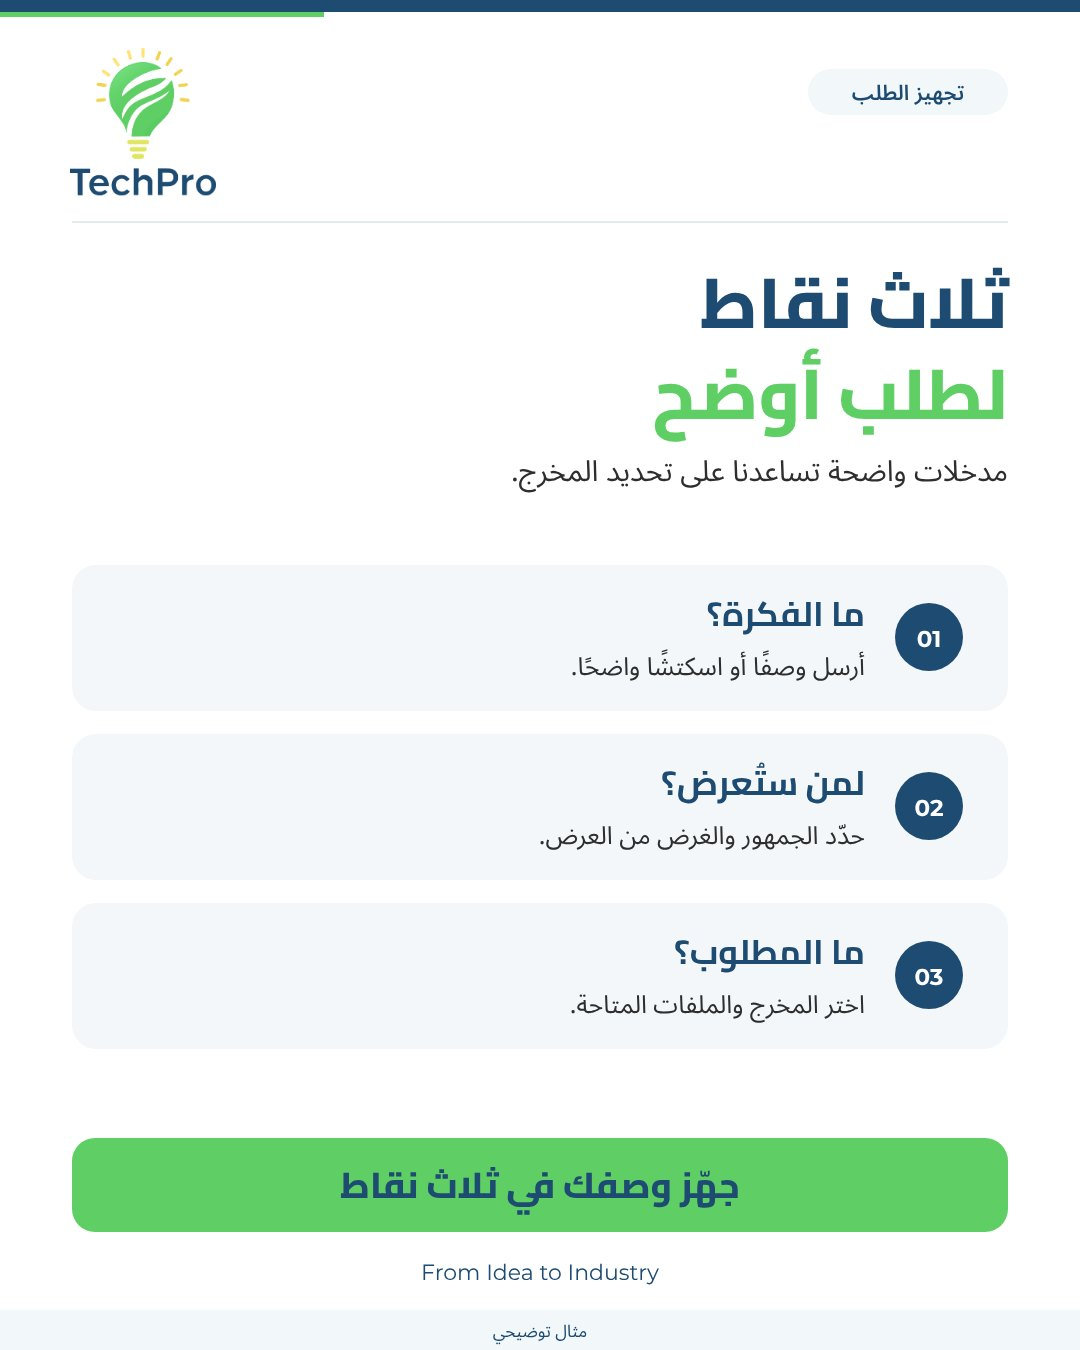
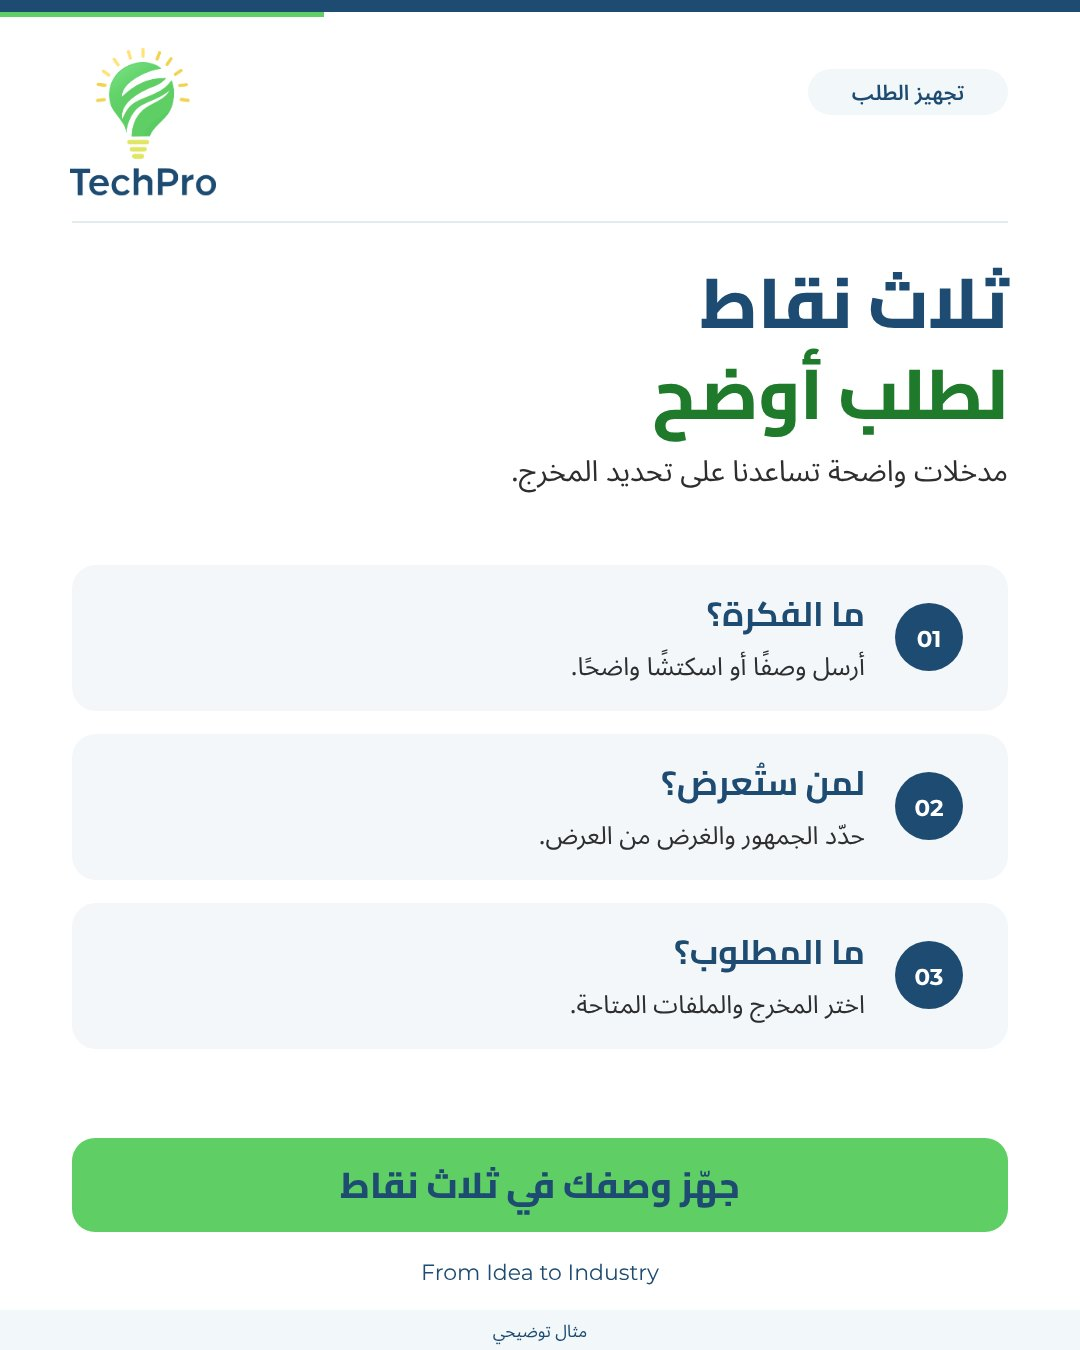
Accessible green headline text, refreshed previews, TP-09 caption
Claude-Session: https://claude.ai/code/session_01D8MzEwopmkKyD4YbKKU6kc

Changed region(s): [[0.6111, 0.2489, 0.9472, 0.3422]]

diff --git a/index.html b/index.html
@@ -285,7 +285,7 @@ nav.tabs button[aria-current="page"]{color:var(--green-ink);background:var(--gre
 
 <script>
 (()=>{
-const CAT=[{"id":"TP-01","key":"01-concept-visualization","title":"وضّح فكرتك الهندسية","layout":"رسم مفاهيمي","group":"خدمة","output":"بوست خدمة","use":"عندما تريد تقديم خدمة التصوّر مع توضيح طبيعة المخرج.","caption":"نجهّز تصوّرًا مفاهيميًا من الاسكتشات أو الصور المرجعية المتاحة لتسهيل شرح فكرتك. نحدد المخرجات بعد مراجعة المطلوب، وأي استخدام تنفيذي يحتاج مراجعة هندسية مناسبة."},{"id":"TP-02","key":"02-choose-your-output","title":"اختر المخرج المناسب لفكرتك","layout":"ثلاث بطاقات","group":"تعليم","output":"بوست تعليمي","use":"عندما يحتاج الجمهور اختيار المخرج المناسب للاستخدام.","caption":"اختيار المخرج يبدأ بتحديد الغرض: فهم الشكل، توثيق الأبعاد والتفاصيل، أو تقديم الفكرة بصريًا. تتكامل هذه المخرجات، ويُحدَّد مستوى الدقة والمعلومات بحسب الاستخدام المطلوب."},{"id":"TP-03","key":"03-five-slide-offer","title":"حوّل المحتوى إلى عرض واضح","layout":"شرائح مصغرة","group":"خدمة","output":"بوست عرض محدود","use":"عند تقديم عرض من خمس شرائح من محتوى يملكه العميل.","caption":"نراجع محتواك التقني وننظّمه في خمس شرائح توضيحية قابلة للتعديل. نتفق على الرسالة الرئيسية والمراجع وحدود التعديلات قبل بدء التنفيذ."},{"id":"TP-04","key":"04-better-brief","title":"ثلاث نقاط لطلب أوضح","layout":"قائمة مرقمة","group":"تجهيز","output":"بوست قائمة إرشادية","use":"قبل استقبال طلب جديد أو كتابة رسالة توضح المطلوب.","caption":"يبدأ الطلب الواضح بفكرة محددة وجمهور معروف ومخرج مطلوب. أرسل الملفات المتاحة مع وصف الاستخدام، لنحدد ما يمكن تجهيزه."},{"id":"TP-05","key":"05-concept-flow","title":"من المدخلات إلى المراجعة","layout":"مسار داكن","group":"تعليم","output":"خريطة تدفّق توضيحية","use":"عند شرح طريقة التعاون أو ترتيب مراحل خدمة.","caption":"يساعد المسار الواضح على تنظيم طلب التصوّر: مدخلات، ثم تصوّر، ثم مراجعة. هذا تسلسل عمل توضيحي يُكيَّف حسب نطاق كل طلب."},{"id":"TP-06","key":"06-digital-model-maquette","title":"نموذج رقمي أم ماكيت؟","layout":"مقارنة بعمودين","group":"تعليم","output":"بوست مقارنة","use":"عندما يحتاج الجمهور فهم الفرق بين الشكل الرقمي والمجسّم المادي.","caption":"النموذج الرقمي يُعرض على الشاشة، والماكيت مخرج مادي يُختار له حجم وخامة. حدّد طريقة الاستخدام أولًا، ثم راجع النطاق وإمكانية التنفيذ."},{"id":"TP-07","key":"07-hypothetical-case","title":"فكرة صغيرة، شرح أوضح","layout":"حالة وبطاقتا دليل","group":"بورتفوليو","output":"بطاقة دراسة حالة افتراضية","use":"لتقديم أسلوب العمل عندما لا يوجد مشروع موثق مصرح بنشره.","caption":"نتخيّل فكرة تحتاج شرح العلاقة بين أجزائها، ثم ننظم مدخلاتها ومخرجها البصري. هذه حالة افتراضية لعرض أسلوب التفكير، وليست مشروع عميل أو نتيجة تنفيذ."},{"id":"TP-08","key":"08-review-your-output","title":"راجع المخرج قبل التسليم","layout":"بطاقات فحص","group":"مراجعة","output":"بوست قائمة مراجعة","use":"عند طلب مراجعة تصميم أو شرح أو عرض قبل إرساله.","caption":"راجع مطابقة المحتوى للمطلوب ووضوح اللغة وملاءمة الملف قبل التسليم. تُحدَّد المراجعات الفنية المتخصصة بحسب استخدام المخرج."},{"id":"TP-09","key":"09-carousel-cover","title":"قبل أن تطلب تصوّرًا هندسيًا","layout":"غلاف بطاقات متراكبة","group":"تعليم","output":"غلاف كاروسيل فقط","use":"لبداية سلسلة قصيرة تشرح موضوعًا واحدًا في عدة شرائح.","caption":"قبل طلب التصوّر، حدّد ما تريد شرحه ولمن ستعرضه. هذا نموذج لغلاف كاروسيل؛ يمكن تطوير الشرائح التالية حول المدخلات والمخرجات."},{"id":"TP-10","key":"10-inputs-and-outputs","title":"ماذا نحتاج؟ وماذا نجهّز؟","layout":"مدخلات وسهم ومخرجات","group":"تجهيز","output":"إنفوجرافيك مبسط","use":"لتوضيح نطاق طلب جديد ومنع الخلط بين المدخلات والتسليمات.","caption":"الوصف والصور والاسكتشات تساعد على فهم الفكرة، ثم نختار المخرج المناسب. الأمثلة المعروضة بدائل نتفق عليها، وليست حزمة تسليم تلقائية."},{"id":"TP-11","key":"11-presentation-checklist","title":"عرض واضح من أربع زوايا","layout":"شبكة أربع بطاقات","group":"مراجعة","output":"بطاقة مراجعة عرض","use":"قبل تقديم عرض تقني أو عند مراجعة شرائح موجودة.","caption":"ابحث عن رسالة واضحة ونص مقروء ورسم يخدم الفكرة ومصدر عند الحاجة. هذه قائمة بداية لمراجعة العرض، وتُكيَّف مع الجمهور والغرض."},{"id":"TP-12","key":"12-service-faq","title":"قبل أن نبدأ","layout":"سؤال وجواب","group":"خدمة","output":"بوست أسئلة شائعة","use":"في منشور استقبال الاستفسارات أو لتقليل غموض الرسائل الجديدة.","caption":"تبدأ الخدمة بفهم الفكرة والملفات المتاحة والاستخدام المقصود. نتفق على النطاق والمخرجات قبل بدء التنفيذ."}];
+const CAT=[{"id":"TP-01","key":"01-concept-visualization","title":"وضّح فكرتك الهندسية","layout":"رسم مفاهيمي","group":"خدمة","output":"بوست خدمة","use":"عندما تريد تقديم خدمة التصوّر مع توضيح طبيعة المخرج.","caption":"نجهّز تصوّرًا مفاهيميًا من الاسكتشات أو الصور المرجعية المتاحة لتسهيل شرح فكرتك. نحدد المخرجات بعد مراجعة المطلوب، وأي استخدام تنفيذي يحتاج مراجعة هندسية مناسبة."},{"id":"TP-02","key":"02-choose-your-output","title":"اختر المخرج المناسب لفكرتك","layout":"ثلاث بطاقات","group":"تعليم","output":"بوست تعليمي","use":"عندما يحتاج الجمهور اختيار المخرج المناسب للاستخدام.","caption":"اختيار المخرج يبدأ بتحديد الغرض: فهم الشكل، توثيق الأبعاد والتفاصيل، أو تقديم الفكرة بصريًا. تتكامل هذه المخرجات، ويُحدَّد مستوى الدقة والمعلومات بحسب الاستخدام المطلوب."},{"id":"TP-03","key":"03-five-slide-offer","title":"حوّل المحتوى إلى عرض واضح","layout":"شرائح مصغرة","group":"خدمة","output":"بوست عرض محدود","use":"عند تقديم عرض من خمس شرائح من محتوى يملكه العميل.","caption":"نراجع محتواك التقني وننظّمه في خمس شرائح توضيحية قابلة للتعديل. نتفق على الرسالة الرئيسية والمراجع وحدود التعديلات قبل بدء التنفيذ."},{"id":"TP-04","key":"04-better-brief","title":"ثلاث نقاط لطلب أوضح","layout":"قائمة مرقمة","group":"تجهيز","output":"بوست قائمة إرشادية","use":"قبل استقبال طلب جديد أو كتابة رسالة توضح المطلوب.","caption":"يبدأ الطلب الواضح بفكرة محددة وجمهور معروف ومخرج مطلوب. أرسل الملفات المتاحة مع وصف الاستخدام، لنحدد ما يمكن تجهيزه."},{"id":"TP-05","key":"05-concept-flow","title":"من المدخلات إلى المراجعة","layout":"مسار داكن","group":"تعليم","output":"خريطة تدفّق توضيحية","use":"عند شرح طريقة التعاون أو ترتيب مراحل خدمة.","caption":"يساعد المسار الواضح على تنظيم طلب التصوّر: مدخلات، ثم تصوّر، ثم مراجعة. هذا تسلسل عمل توضيحي يُكيَّف حسب نطاق كل طلب."},{"id":"TP-06","key":"06-digital-model-maquette","title":"نموذج رقمي أم ماكيت؟","layout":"مقارنة بعمودين","group":"تعليم","output":"بوست مقارنة","use":"عندما يحتاج الجمهور فهم الفرق بين الشكل الرقمي والمجسّم المادي.","caption":"النموذج الرقمي يُعرض على الشاشة، والماكيت مخرج مادي يُختار له حجم وخامة. حدّد طريقة الاستخدام أولًا، ثم راجع النطاق وإمكانية التنفيذ."},{"id":"TP-07","key":"07-hypothetical-case","title":"فكرة صغيرة، شرح أوضح","layout":"حالة وبطاقتا دليل","group":"بورتفوليو","output":"بطاقة دراسة حالة افتراضية","use":"لتقديم أسلوب العمل عندما لا يوجد مشروع موثق مصرح بنشره.","caption":"نتخيّل فكرة تحتاج شرح العلاقة بين أجزائها، ثم ننظم مدخلاتها ومخرجها البصري. هذه حالة افتراضية لعرض أسلوب التفكير، وليست مشروع عميل أو نتيجة تنفيذ."},{"id":"TP-08","key":"08-review-your-output","title":"راجع المخرج قبل التسليم","layout":"بطاقات فحص","group":"مراجعة","output":"بوست قائمة مراجعة","use":"عند طلب مراجعة تصميم أو شرح أو عرض قبل إرساله.","caption":"راجع مطابقة المحتوى للمطلوب ووضوح اللغة وملاءمة الملف قبل التسليم. تُحدَّد المراجعات الفنية المتخصصة بحسب استخدام المخرج."},{"id":"TP-09","key":"09-carousel-cover","title":"قبل أن تطلب تصوّرًا هندسيًا","layout":"غلاف بطاقات متراكبة","group":"تعليم","output":"غلاف كاروسيل فقط","use":"لبداية سلسلة قصيرة تشرح موضوعًا واحدًا في عدة شرائح.","caption":"قبل طلب التصوّر، حدّد ما تريد شرحه ولمن ستعرضه."},{"id":"TP-10","key":"10-inputs-and-outputs","title":"ماذا نحتاج؟ وماذا نجهّز؟","layout":"مدخلات وسهم ومخرجات","group":"تجهيز","output":"إنفوجرافيك مبسط","use":"لتوضيح نطاق طلب جديد ومنع الخلط بين المدخلات والتسليمات.","caption":"الوصف والصور والاسكتشات تساعد على فهم الفكرة، ثم نختار المخرج المناسب. الأمثلة المعروضة بدائل نتفق عليها، وليست حزمة تسليم تلقائية."},{"id":"TP-11","key":"11-presentation-checklist","title":"عرض واضح من أربع زوايا","layout":"شبكة أربع بطاقات","group":"مراجعة","output":"بطاقة مراجعة عرض","use":"قبل تقديم عرض تقني أو عند مراجعة شرائح موجودة.","caption":"ابحث عن رسالة واضحة ونص مقروء ورسم يخدم الفكرة ومصدر عند الحاجة. هذه قائمة بداية لمراجعة العرض، وتُكيَّف مع الجمهور والغرض."},{"id":"TP-12","key":"12-service-faq","title":"قبل أن نبدأ","layout":"سؤال وجواب","group":"خدمة","output":"بوست أسئلة شائعة","use":"في منشور استقبال الاستفسارات أو لتقليل غموض الرسائل الجديدة.","caption":"تبدأ الخدمة بفهم الفكرة والملفات المتاحة والاستخدام المقصود. نتفق على النطاق والمخرجات قبل بدء التنفيذ."}];
 const READY_CAPTION="عندك قطعة أو معدة محتاج تعرضها أو تطبعها؟\nنجهّز لها نموذجًا ثلاثي الأبعاد على SolidWorks من الرسومات والمقاسات اللي عندك، مع ملفات STL جاهزة للطباعة وصور معاينة واضحة.\nالنموذج مخصص للعرض والتعليم، ويشمل جولة تعديل واحدة.\nأرسل الرسومات والمقاسات والموعد المطلوب، ونحدد النطاق قبل البدء.\n\n#TechPro #3DModeling #SolidWorks #3DPrinting #STL";
 const PLAN=[
  ["27 أكتوبر","TP-10","عندك قطعة أو معدة؟ نجهّز نموذجها 3D"],
@@ -296,7 +296,7 @@ const PLAN=[
  ["14 نوفمبر","TP-07","من الرسم إلى قطعة مطبوعة"],
  ["17 نوفمبر","TP-09","قبل أن تطلب ملفات STL (كاروسيل)"],
  ["21 نوفمبر","TP-12","قبل أن نبدأ: أسئلة الخدمة"]];
-const COLORS=[["كحلي","#1E4B72"],["أخضر","#5FCF65"],["أصفر هادئ","#E0E664"],["نص","#2E2E2E"],["رمادي مزرق","#587184"],["خلفية لوحة","#F3F7FA"]];
+const COLORS=[["كحلي","#1E4B72"],["أخضر","#5FCF65"],["أخضر للنص على الأبيض","#1F7A2B"],["أصفر هادئ","#E0E664"],["نص","#2E2E2E"],["أبيض","#FFFFFF"]];
 const $=s=>document.querySelector(s);
 const store={get(k,d){try{const v=localStorage.getItem(k);return v==null?d:JSON.parse(v)}catch(e){return d}},set(k,v){try{localStorage.setItem(k,JSON.stringify(v))}catch(e){}}};
 let toastT;function toast(m){const t=$('#toast');t.textContent=m;t.hidden=false;clearTimeout(toastT);toastT=setTimeout(()=>t.hidden=true,1800)}

diff --git a/sw.js b/sw.js
@@ -1,4 +1,4 @@
-const C='techpro-v7';const F=["./", "index.html", "manifest.webmanifest", "logo.png", "icon-180.png", "icon-192.png", "icon-512.png", "favicon.png","apple-touch-icon.png","apple-touch-icon-precomposed.png", "t/01.jpg", "t/02.jpg", "t/03.jpg", "t/04.jpg", "t/05.jpg", "t/06.jpg", "t/07.jpg", "t/08.jpg", "t/09.jpg", "t/10.jpg", "t/11.jpg", "t/12.jpg", "t/ready-3d-stl.jpg"];
+const C='techpro-v8';const F=["./", "index.html", "manifest.webmanifest", "logo.png", "icon-180.png", "icon-192.png", "icon-512.png", "favicon.png","apple-touch-icon.png","apple-touch-icon-precomposed.png", "t/01.jpg", "t/02.jpg", "t/03.jpg", "t/04.jpg", "t/05.jpg", "t/06.jpg", "t/07.jpg", "t/08.jpg", "t/09.jpg", "t/10.jpg", "t/11.jpg", "t/12.jpg", "t/ready-3d-stl.jpg"];
 self.addEventListener('install',e=>{e.waitUntil(caches.open(C).then(c=>c.addAll(F)));self.skipWaiting()});
 self.addEventListener('activate',e=>{e.waitUntil(caches.keys().then(k=>Promise.all(k.filter(x=>x!==C).map(x=>caches.delete(x)))));self.clients.claim()});
 self.addEventListener('fetch',e=>{if(e.request.method!=='GET')return;e.respondWith(fetch(e.request).then(r=>{const cp=r.clone();if(new URL(e.request.url).origin===location.origin)caches.open(C).then(c=>c.put(e.request,cp));return r}).catch(()=>caches.match(e.request).then(r=>r||caches.match('index.html'))))});
